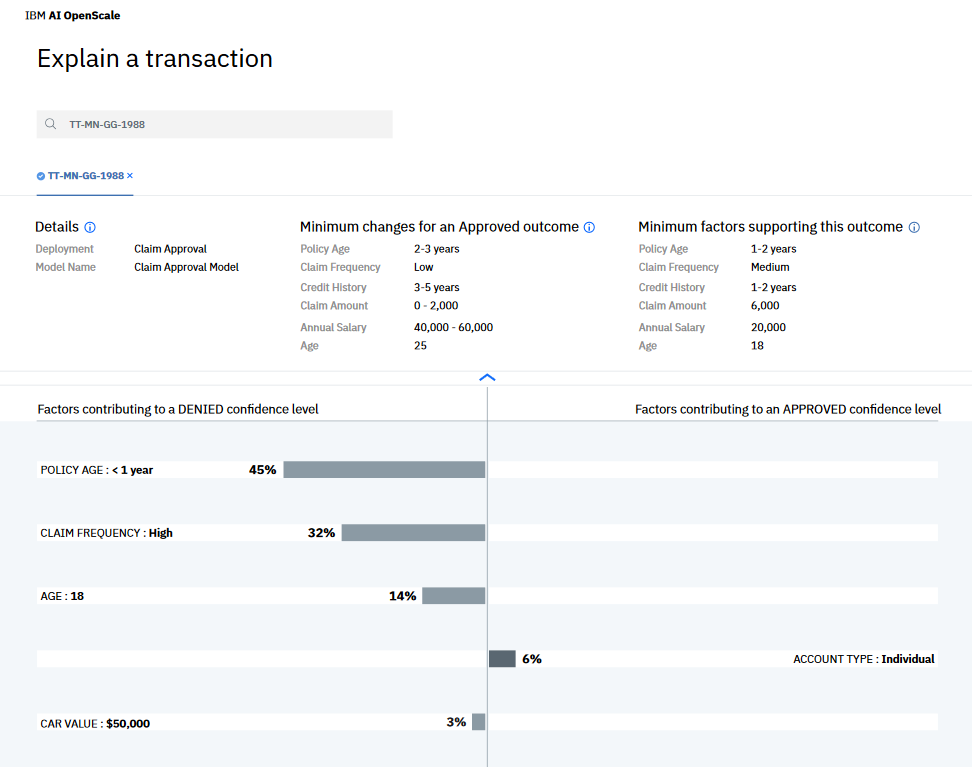
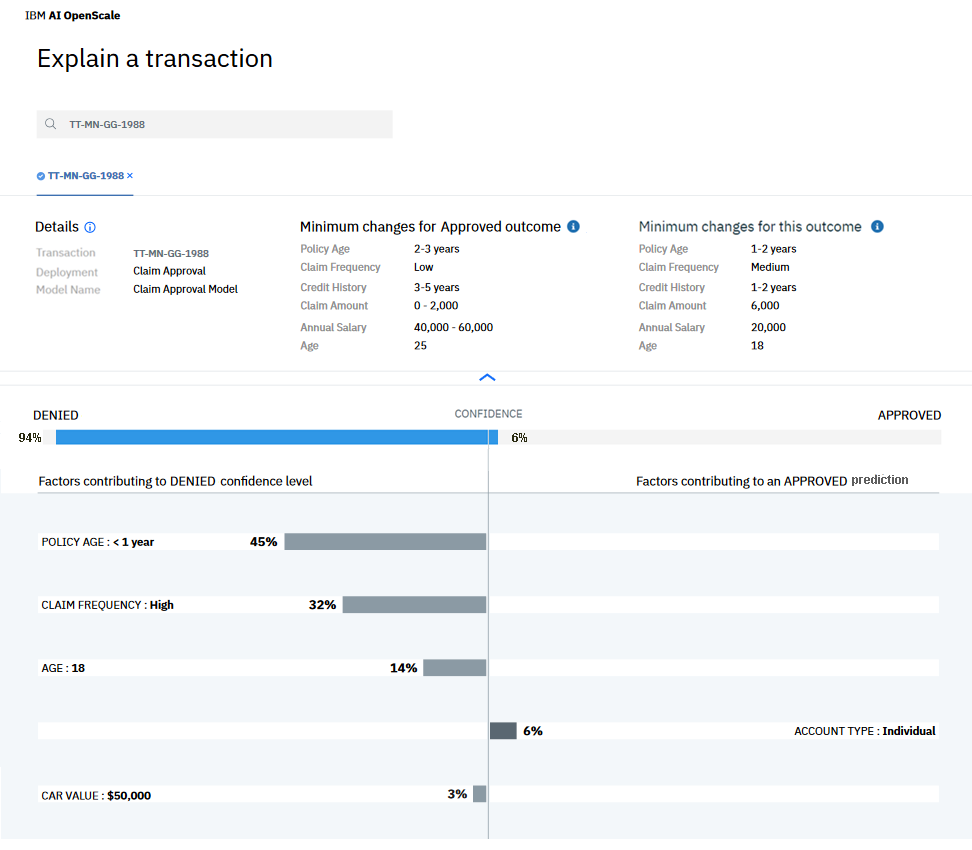
Fixes issue #4424

diff --git a/insight-explain.md b/insight-explain.md
@@ -1,8 +1,8 @@
 ---
 
 copyright:
-  years: 2018
-lastupdated: "2018-12-21"
+  years: 2018, 2019
+lastupdated: "2019-01-09"
 
 ---
 
@@ -49,16 +49,16 @@ The feature *POLICY AGE* having a value of `< 1 year` had the maximum impact in 
 
 ![Explainability binary classification](images/insight-explain-binary.png)
 
-While the charts are useful in showing the most significant factors in determining the outcome of a transaction, classification models can also include advanced explanations, detailed in the `Minimum changes for an Approved outcome` and `Minimum factors supporting this outcome` sections.
+While the charts are useful in showing the most significant factors in determining the outcome of a transaction, classification models can also include advanced explanations, detailed in the `Minimum changes for Approved outcome` and `Minimum changes for this outcome` sections.
 
 Advanced explanations are not available for regression, image, and unstructured text models.
 {: note}
 
-The `Minimum changes for an Approved outcome` tells us that, if the values of the features were changed to the values listed in this section, then the prediction of the model will change.
+The `Minimum changes for Approved outcome` tells us that, if the values of the features were changed to the values listed in this section, then the prediction of the model will change.
 
-Likewise, the `Minimum factors supporting this outcome` tells us that, even if the values of the features were changed to those listed in this section, the prediction of the model would not have changed.
+Likewise, the `Minimum changes for this outcome` tells us that, even if the values of the features were changed to those listed in this section, the prediction of the model would not have changed.
 
-Thus, these two values tell us the behaviour of the model in the vicinity of the data point for which the explanation is being generated.
+Thus, these two values tell us the behavior of the model in the vicinity of the data point for which the explanation is being generated.
 
 ![Explainability binary classification](images/insight-explain-binary2.png)
 
